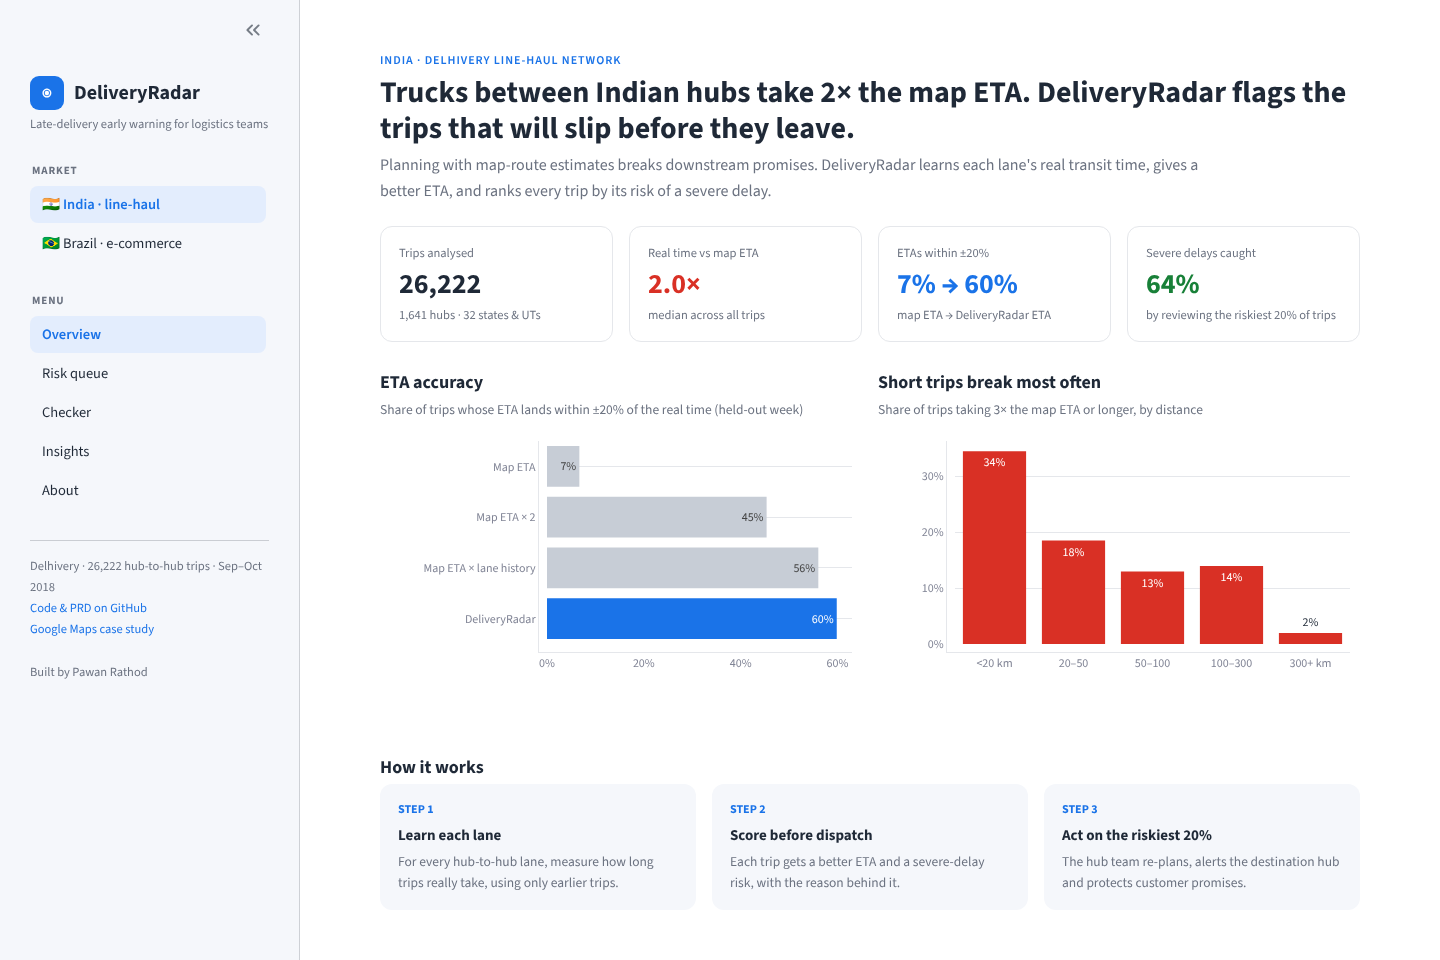
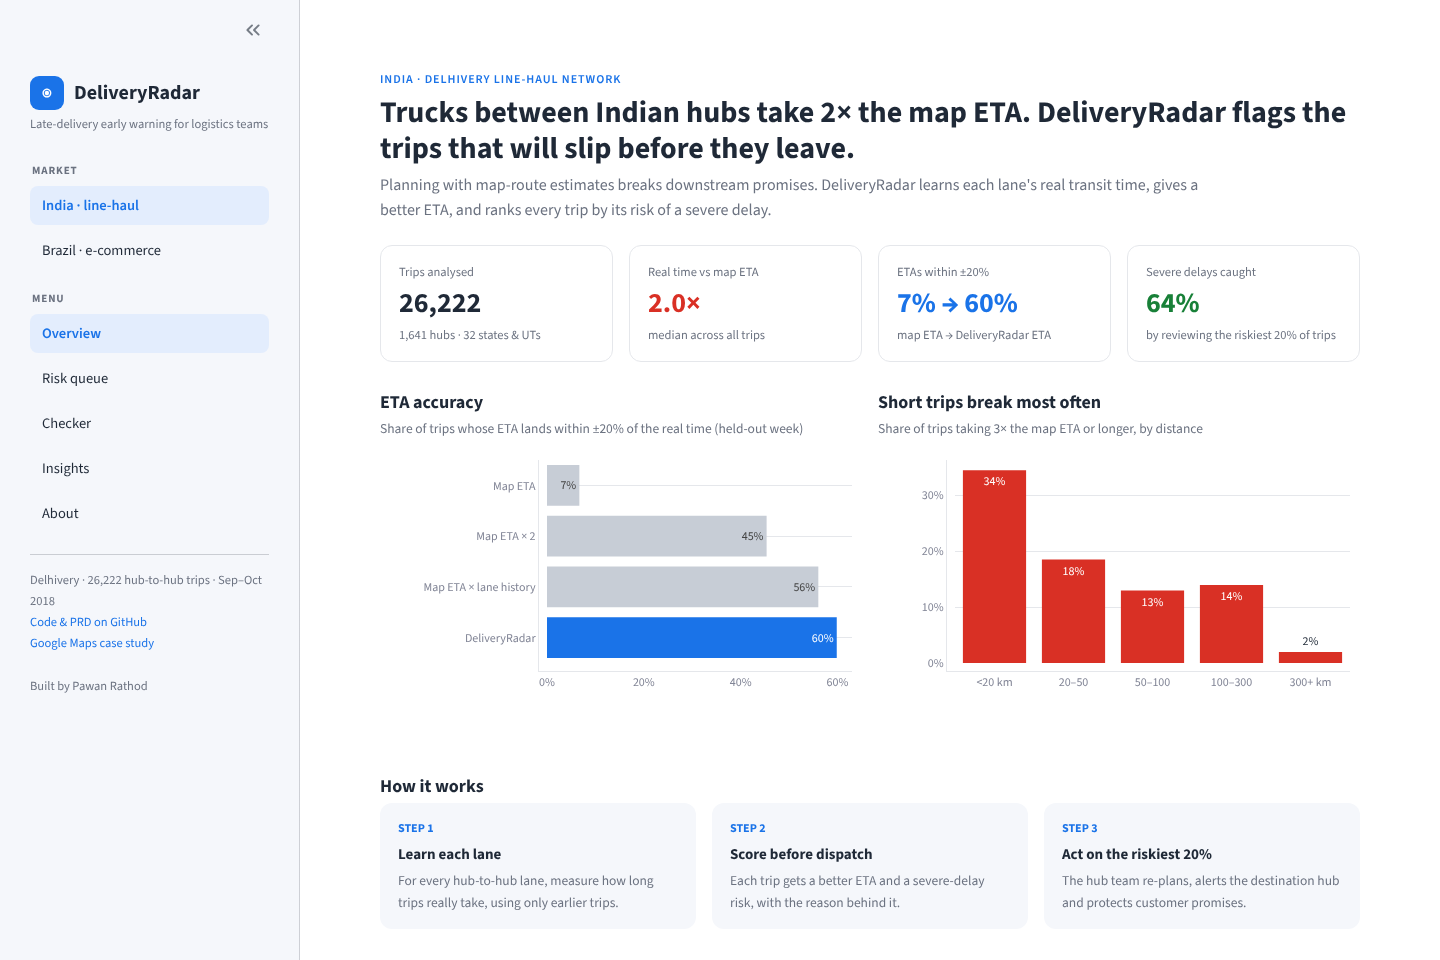
Add files via upload

diff --git a/app.py b/app.py
@@ -17,7 +17,7 @@ REPO = "https://github.com/Rathore-Sahab/delivery-radar"
 CASE_STUDY = "https://github.com/Rathore-Sahab/google-maps-doorstep-case-study"
 
 st.set_page_config(page_title="DeliveryRadar", page_icon="📦", layout="wide",
-                   initial_sidebar_state="expanded")
+                   initial_sidebar_state="auto")
 
 # --------------------------------------------------------------------------- #
 #  Design system
@@ -27,8 +27,9 @@ INK, MUTED, LINE, SOFT = "#1f2937", "#6b7280", "#e5e7eb", "#f5f7fb"
 
 st.markdown(f"""
 <style>
-  [data-testid="stToolbar"], [data-testid="stDecoration"], footer {{ display: none !important; }}
-  .block-container {{ padding-top: 2.2rem; padding-bottom: 3rem; max-width: 1240px; }}
+  [data-testid="stDecoration"], [data-testid="stAppDeployButton"], [data-testid="stMainMenu"], footer {{ display: none !important; }}
+  header[data-testid="stHeader"] {{ background: transparent; }}
+  .block-container {{ padding-top: 3.4rem; padding-bottom: 3rem; max-width: 1240px; }}
   section[data-testid="stSidebar"] {{ border-right: 1px solid {LINE}; }}
   section[data-testid="stSidebar"] .block-container {{ padding-top: 1.5rem; }}
   h1, h2, h3 {{ letter-spacing: -0.01em; }}
@@ -61,17 +62,29 @@ st.markdown(f"""
   .side-foot {{ font-size:12.5px; color:{MUTED}; line-height:1.7; }}
   .side-foot a {{ color:{BLUE}; text-decoration:none; }}
   div[data-testid="stDataFrame"] {{ border:1px solid {LINE}; border-radius:10px; }}
+  .tbl-wrap {{ border:1px solid {LINE}; border-radius:12px; max-height:540px; overflow:auto; }}
+  table.q {{ width:100%; border-collapse:collapse; font-size:13.5px; }}
+  table.q th {{ position:sticky; top:0; background:{SOFT}; color:{MUTED}; font-weight:600; text-align:left;
+               padding:10px 12px; border-bottom:1px solid {LINE}; white-space:nowrap; z-index:1; }}
+  table.q td {{ padding:10px 12px; border-bottom:1px solid #f0f2f5; vertical-align:top; color:{INK}; }}
+  table.q td.num, table.q th.num {{ text-align:right; white-space:nowrap; }}
+  table.q tr:hover td {{ background:#fafbfd; }}
+  .bar {{ height:6px; background:#eef1f5; border-radius:3px; margin-top:6px; width:80px; }}
+  .bar > div {{ height:6px; border-radius:3px; }}
+  .muted {{ color:{MUTED}; font-size:12.5px; }}
   .side-label {{ font-size:11px; font-weight:700; letter-spacing:.08em; color:{MUTED}; margin:14px 0 6px 2px; }}
-  section[data-testid="stSidebar"] [data-testid="stRadio"], section[data-testid="stSidebar"] [data-testid="stRadio"] > div {{ width: 100%; }}
-  section[data-testid="stSidebar"] div[role="radiogroup"] {{ gap: 2px; flex-direction: column; width: 100%; }}
-  section[data-testid="stSidebar"] div[role="radiogroup"] > div {{ width: 100%; display: block; }}
-  section[data-testid="stSidebar"] label[data-testid="stRadioOption"] {{ width: 100%; min-width: 236px; display: flex; box-sizing: border-box; padding: 7px 12px;
-      border-radius: 8px; margin: 0; cursor: pointer; transition: background .15s; }}
-  section[data-testid="stSidebar"] label[data-testid="stRadioOption"] > div > div:first-child {{ display: none; }}
-  section[data-testid="stSidebar"] label[data-testid="stRadioOption"]:hover {{ background: #eaeef4; }}
-  section[data-testid="stSidebar"] div[data-selected="true"] > label[data-testid="stRadioOption"] {{ background: #e3edfd; }}
-  section[data-testid="stSidebar"] div[data-selected="true"] > label[data-testid="stRadioOption"] p {{ color:{BLUE}; font-weight:600; }}
-  section[data-testid="stSidebar"] label[data-testid="stRadioOption"] p {{ font-size: 14.5px; }}
+  section[data-testid="stSidebar"] .stButton {{ margin-bottom: -10px; }}
+  section[data-testid="stSidebar"] .stButton button > div {{ justify-content: flex-start; width: 100%; }}
+  section[data-testid="stSidebar"] .stButton button p {{ text-align: left; }}
+  section[data-testid="stSidebar"] .stButton button {{ justify-content: flex-start; text-align: left;
+      padding: 8px 12px; border-radius: 8px; min-height: 38px; border: none; box-shadow: none; }}
+  section[data-testid="stSidebar"] .stButton button p {{ font-size: 14.5px; }}
+  section[data-testid="stSidebar"] button[data-testid="stBaseButton-tertiary"] {{ color: {INK}; background: transparent; }}
+  section[data-testid="stSidebar"] button[data-testid="stBaseButton-tertiary"]:hover {{ background: #eaeef4; color: {INK}; }}
+  section[data-testid="stSidebar"] button[data-testid="stBaseButton-primary"],
+  section[data-testid="stSidebar"] button[data-testid="stBaseButton-primary"]:hover,
+  section[data-testid="stSidebar"] button[data-testid="stBaseButton-primary"]:focus {{ background: #e3edfd; color: {BLUE}; }}
+  section[data-testid="stSidebar"] button[data-testid="stBaseButton-primary"] p {{ font-weight: 600; color: {BLUE}; }}
   section[data-testid="stSidebar"] hr {{ margin: 14px 0; }}
 </style>
 """, unsafe_allow_html=True)
@@ -112,6 +125,21 @@ def chart(fig, h=320, legend=False):
 
 
 DOT = {"High": "🔴 High", "Medium": "🟠 Medium", "Low": "🟢 Low"}
+
+
+def risk_cell(p, band, scale=1.0):
+    color = {"High": RED, "Medium": AMBER, "Low": GREEN}[band]
+    w = min(100, p * 100 / scale)
+    return (f'{pill(band)}<div class="bar"><div style="width:{w:.0f}%;background:{color}"></div></div>'
+            f'<div class="muted">{p:.0%} risk</div>')
+
+
+def html_table(headers, rows, num_cols=()):
+    th = "".join(f'<th class="{"num" if i in num_cols else ""}">{h}</th>' for i, h in enumerate(headers))
+    body = "".join("<tr>" + "".join(f'<td class="{"num" if i in num_cols else ""}">{c}</td>'
+                                    for i, c in enumerate(r)) + "</tr>" for r in rows)
+    st.markdown(f'<div class="tbl-wrap"><table class="q"><thead><tr>{th}</tr></thead><tbody>{body}</tbody></table></div>',
+                unsafe_allow_html=True)
 
 
 def action_legend(actions):
@@ -168,15 +196,32 @@ def br_name(code):
 # --------------------------------------------------------------------------- #
 PAGES = ["Overview", "Risk queue", "Checker", "Insights", "About"]
 
+MARKETS = ["India · line-haul", "Brazil · e-commerce"]
+st.session_state.setdefault("market", MARKETS[0])
+st.session_state.setdefault("page", PAGES[0])
+
+
+def nav_button(label, key, active):
+    if st.button(label, key=key, type="primary" if active else "tertiary", width="stretch"):
+        return True
+    return False
+
+
 with st.sidebar:
     st.markdown('<div class="brand"><div class="brand-mark">◉</div><div class="brand-name">DeliveryRadar</div></div>'
                 '<div class="brand-tag">Late-delivery early warning for logistics teams</div>', unsafe_allow_html=True)
     st.markdown('<div class="side-label">MARKET</div>', unsafe_allow_html=True)
-    market = st.radio("Market", ["🇮🇳  India · line-haul", "🇧🇷  Brazil · e-commerce"],
-                      label_visibility="collapsed")
-    india = "India" in market
+    for m in MARKETS:
+        if nav_button(m, f"mk_{m}", st.session_state.market == m):
+            st.session_state.market = m
+            st.rerun()
     st.markdown('<div class="side-label">MENU</div>', unsafe_allow_html=True)
-    page = st.radio("Navigate", PAGES, label_visibility="collapsed")
+    for p in PAGES:
+        if nav_button(p, f"pg_{p}", st.session_state.page == p):
+            st.session_state.page = p
+            st.rerun()
+    india = st.session_state.market.startswith("India")
+    page = st.session_state.page
     st.divider()
     st.markdown(f'<div class="side-foot">'
                 f'{"Delhivery · 26,222 hub-to-hub trips · Sep–Oct 2018" if india else "Olist · 95,976 orders · 2016–2018"}'
@@ -345,27 +390,18 @@ def queue():
         caught = top.severe.sum() / max(d.severe.sum(), 1)
         kpi(k[3], "Lift vs random checks", f"{caught / (cap / 100):.1f}×" if d.severe.sum() else "–",
             f"{caught:.0%} caught vs {cap}% by chance")
-        top["Band"] = top.risk.map(i_band).map(DOT)
-        top["Lane"] = top.src.map(hub) + " → " + top.dst.map(hub)
-        top["Why"] = [i_reasons(r) for r in top.itertuples()]
-        top["Action"] = top.risk.map(i_band).map(I_ACTION)
-        top["Risk"] = top.risk * 100
         st.markdown("<div style='height:6px'></div>", unsafe_allow_html=True)
         show = st.toggle("Show what actually happened", value=False)
-        cols = ["Band", "Risk", "Lane", "osrm", "eta_pred", "Why"] + (["actual", "severe"] if show else [])
-        st.dataframe(top[cols].rename(columns={"osrm_km": "Km", "osrm": "Map ETA (min)", "eta_pred": "Radar ETA (min)",
-                                               "actual": "Actual (min)", "severe": "Severe delay?"}),
-                     hide_index=True, width="stretch", height=460, column_config={
-                         "Band": st.column_config.TextColumn(width="small"),
-                         "Risk": st.column_config.ProgressColumn(format="%.0f%%", min_value=0, max_value=100, width="small"),
-                         "Lane": st.column_config.TextColumn(width="large"),
-                         "Why": st.column_config.TextColumn(width="large"),
-                         "Action": st.column_config.TextColumn(width="large"),
-                         "Km": st.column_config.NumberColumn(format="%.0f", width="small"),
-                         "Map ETA (min)": st.column_config.NumberColumn(format="%.0f"),
-                         "Radar ETA (min)": st.column_config.NumberColumn(format="%.0f", help="DeliveryRadar ETA"),
-                         "Actual (min)": st.column_config.NumberColumn(format="%.0f"),
-                         "Severe delay?": st.column_config.CheckboxColumn()})
+        headers = ["Risk", "Lane", "Map ETA", "Radar ETA", "Why it's flagged"] + (["Actual", "Severe delay?"] if show else [])
+        rows = []
+        for r in top.itertuples():
+            row = [risk_cell(r.risk, i_band(r.risk)),
+                   f'{hub(r.src)} → {hub(r.dst)}<div class="muted">{r.osrm_km:.0f} km · {r.route_type}</div>',
+                   f"{r.osrm:.0f} min", f"<b>{r.eta_pred:.0f} min</b>", i_reasons(r)]
+            if show:
+                row += [f"{r.actual:.0f} min", "✔ Yes" if r.severe else "No"]
+            rows.append(row)
+        html_table(headers, rows, num_cols=(2, 3, 5))
         action_legend(I_ACTION)
     else:
         hero("Risk queue · Brazil", "Today's orders, riskiest first",
@@ -387,26 +423,21 @@ def queue():
         kpi(k[2], "Late orders among flagged", f"{int(top.is_late.sum())} of {int(d.is_late.sum())}", "known in hindsight", "green")
         kpi(k[3], "Late orders caught (test period)", f"{BM['capture_curve']['model'][idx]:.0%}",
             f"vs {cap}% by random checks")
-        top["Band"] = top.risk.map(b_band).map(DOT)
-        top["Lane"] = top.seller_state.map(br_name) + " → " + top.customer_state.map(br_name)
-        top["Why"] = [b_reasons(s, r, o) for s, r, o in zip(top.slack_days, top.seller_prior_late_rate, top.seller_prior_orders)]
-        top["Action"] = top.risk.map(b_band).map(B_ACTION)
-        top["Risk"] = top.risk * 100
         st.markdown("<div style='height:6px'></div>", unsafe_allow_html=True)
         show = st.toggle("Show what actually happened", value=False)
-        cols = ["Band", "Risk", "Lane", "category", "promised_days", "slack_days", "Why"] + \
-               (["is_late", "days_late", "review_score"] if show else [])
-        st.dataframe(top[cols].rename(columns={"category": "Category", "promised_days": "Promised (days)",
-                                               "slack_days": "Buffer (days)", "is_late": "Late?",
-                                               "days_late": "Days vs promise", "review_score": "Review ★"}),
-                     hide_index=True, width="stretch", height=460, column_config={
-                         "Band": st.column_config.TextColumn(width="small"),
-                         "Risk": st.column_config.ProgressColumn(format="%.0f%%", min_value=0, max_value=40, width="small"),
-                         "Lane": st.column_config.TextColumn(width="medium"),
-                         "Why": st.column_config.TextColumn(width="large"),
-                         "Action": st.column_config.TextColumn(width="large"),
-                         "Buffer (days)": st.column_config.NumberColumn(format="%.1f"),
-                         "Late?": st.column_config.CheckboxColumn()})
+        headers = ["Risk", "Lane", "Category", "Promised", "Buffer", "Why it's flagged"] + \
+                  (["Outcome", "Review"] if show else [])
+        rows = []
+        for r in top.itertuples():
+            row = [risk_cell(r.risk, b_band(r.risk), scale=0.4),
+                   f"{br_name(r.seller_state)} → {br_name(r.customer_state)}",
+                   str(r.category).replace("_", " "), f"{r.promised_days:.0f} days", f"{r.slack_days:+.1f} days",
+                   b_reasons(r.slack_days, r.seller_prior_late_rate, r.seller_prior_orders)]
+            if show:
+                row += [f"Late by {r.days_late:.0f} days" if r.is_late else "On time",
+                        "–" if pd.isna(r.review_score) else f"{r.review_score:.0f} ★"]
+            rows.append(row)
+        html_table(headers, rows, num_cols=(3, 4))
         action_legend(B_ACTION)
 
 
